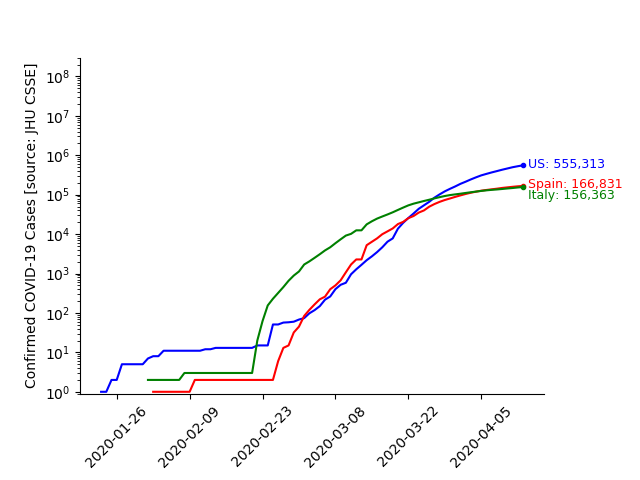
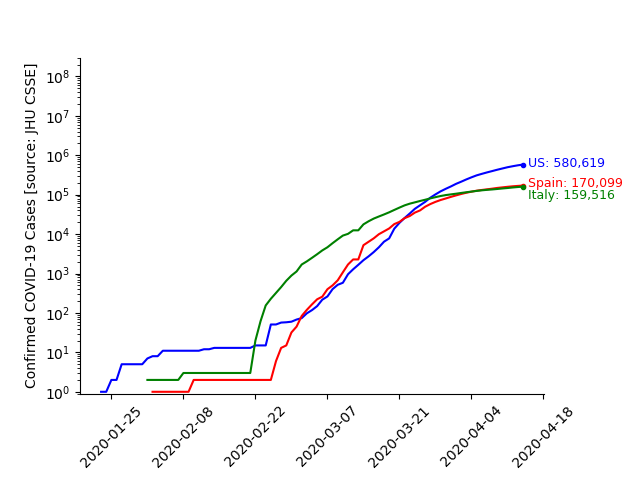
2020-04-13 updates

diff --git a/plot_cases.py b/plot_cases.py
@@ -34,10 +34,6 @@ for ii in ts_confirmed.columns[4:]:
 # plot country comparisons
 fig, ax = plt.subplots()
 
-#plt.semilogy(dates[np.where(cases_cn>0)[0][0]:], cases_cn[cases_cn>0], 'r-')
-#plt.semilogy(dates[-1], cases_cn[-1], 'r.')
-#ax.annotate('China: {:,}'.format(cases_cn[-1]), (dates[-1]+dt.timedelta(days=1), 0.6*cases_cn[-1]), color='red', fontsize=9)
-
 plt.semilogy(dates[np.where(cases_us>0)[0][0]:], cases_us[cases_us>0], 'b-')
 plt.semilogy(dates[-1], cases_us[-1], 'b.')
 ax.annotate('US: {:,}'.format(cases_us[-1]), (dates[-1]+dt.timedelta(days=1), 0.85*cases_us[-1]), color='blue', fontsize=9)
@@ -50,10 +46,12 @@ plt.semilogy(dates[np.where(cases_it>0)[0][0]:], cases_it[cases_it>0], 'g-')
 plt.semilogy(dates[-1], cases_it[-1], 'g.')
 ax.annotate('Italy: {:,}'.format(cases_it[-1]), (dates[-1]+dt.timedelta(days=1), 0.5*cases_it[-1]), color='green', fontsize=9)
 
-#plt.semilogy(dates[np.where(cases_sk>0)[0][0]:], cases_sk[cases_sk>0], '.-', label='South Korea')
-#plt.semilogy(dates[np.where(cases_jp>0)[0][0]:], cases_jp[cases_jp>0], '.-', label='Japan')
-#plt.semilogy(dates[np.where(cases_de>0)[0][0]:], cases_de[cases_de>0], '.-', label='Germany')
-#plt.semilogy(dates[np.where(cases_es>0)[0][0]:], cases_es[cases_es>0], '.-', label='Spain')
+# plt.semilogy(dates[np.where(cases_cn>0)[0][0]:], cases_cn[cases_cn>0], '-', label='China')
+# #plt.semilogy(dates[-1], cases_cn[-1], 'r.')
+# #ax.annotate('China: {:,}'.format(cases_cn[-1]), (dates[-1]+dt.timedelta(days=1), 0.6*cases_cn[-1]), color='red', fontsize=9)
+# plt.semilogy(dates[np.where(cases_sk>0)[0][0]:], cases_sk[cases_sk>0], '-', label='South Korea')
+# plt.semilogy(dates[np.where(cases_jp>0)[0][0]:], cases_jp[cases_jp>0], '-', label='Japan')
+# plt.semilogy(dates[np.where(cases_de>0)[0][0]:], cases_de[cases_de>0], '-', label='Germany')
 
 ax.set_ylim([0.9,300e6])
 ax.xaxis.set_tick_params(rotation=45, labelsize=10)
@@ -61,4 +59,5 @@ fig.subplots_adjust(bottom=0.18, right=0.85)
 ax.spines['right'].set_visible(False)
 ax.spines['top'].set_visible(False)
 plt.ylabel('Confirmed COVID-19 Cases [source: JHU CSSE]')
+# plt.legend()
 plt.show()
